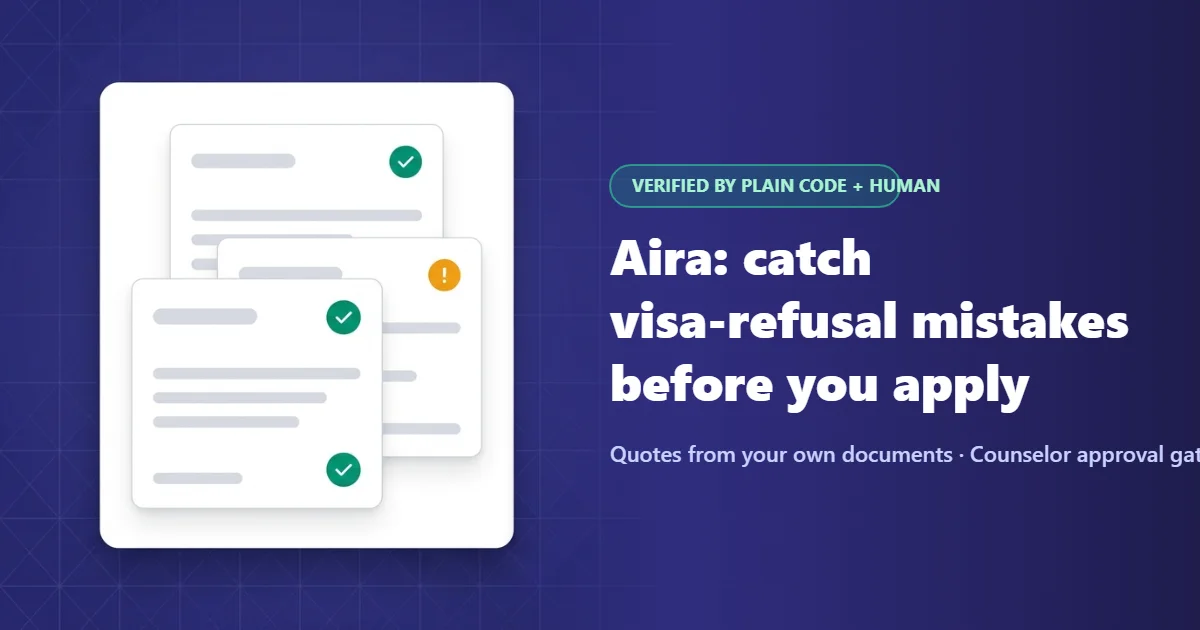
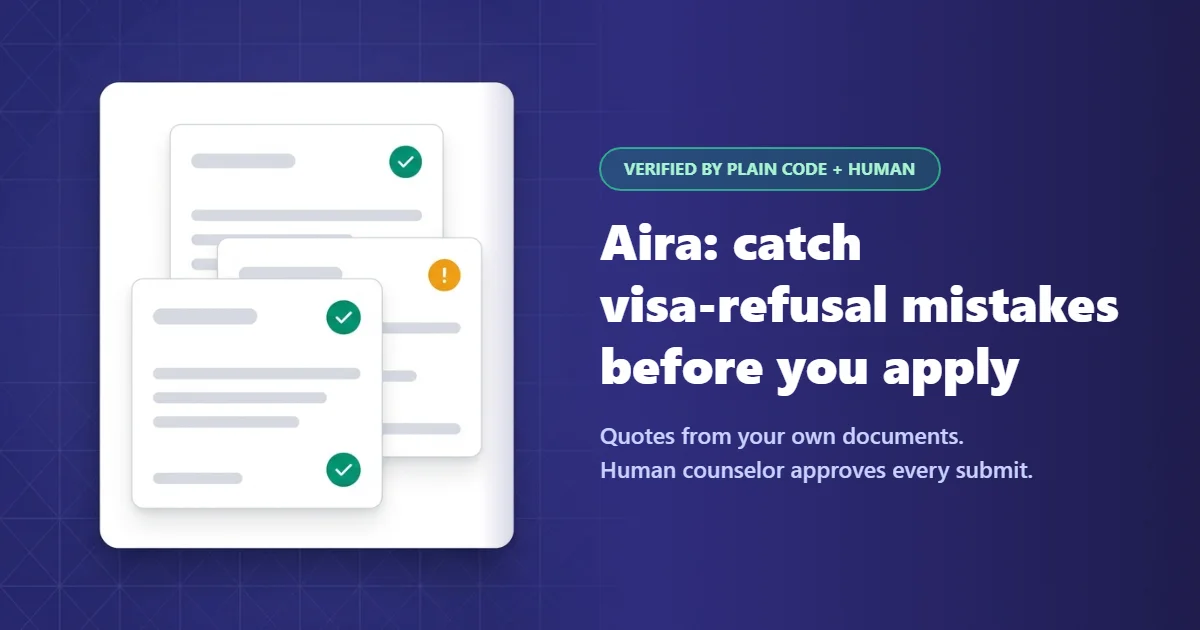
fix: wrap og-card subtitle, pad badge pill, and export absolute PNG og:image

Changed region(s): [[0.4933, 0.3619, 1.0, 0.7841], [0.4933, 0.2111, 0.8017, 0.3317], [0.4008, 0.1206, 0.4317, 0.8746]]

diff --git a/web/index.html b/web/index.html
@@ -14,12 +14,13 @@
       property="og:description"
       content="Quotes from your own documents. Math done in code, not AI. Human counselor approves every submit."
     />
-    <meta property="og:image" content="/img/og-card.webp" />
+    <meta property="og:image" content="https://aira-web-217073132830.asia-south1.run.app/img/og-card.png" />
+    <meta property="og:image:type" content="image/png" />
     <meta property="og:image:width" content="1200" />
     <meta property="og:image:height" content="630" />
     <meta name="twitter:card" content="summary_large_image" />
     <meta name="twitter:title" content="Aira: catch visa-refusal mistakes before you apply" />
-    <meta name="twitter:image" content="/img/og-card.webp" />
+    <meta name="twitter:image" content="https://aira-web-217073132830.asia-south1.run.app/img/og-card.png" />
     <link rel="preconnect" href="https://fonts.googleapis.com" />
     <link rel="preconnect" href="https://fonts.gstatic.com" crossorigin />
     <link
